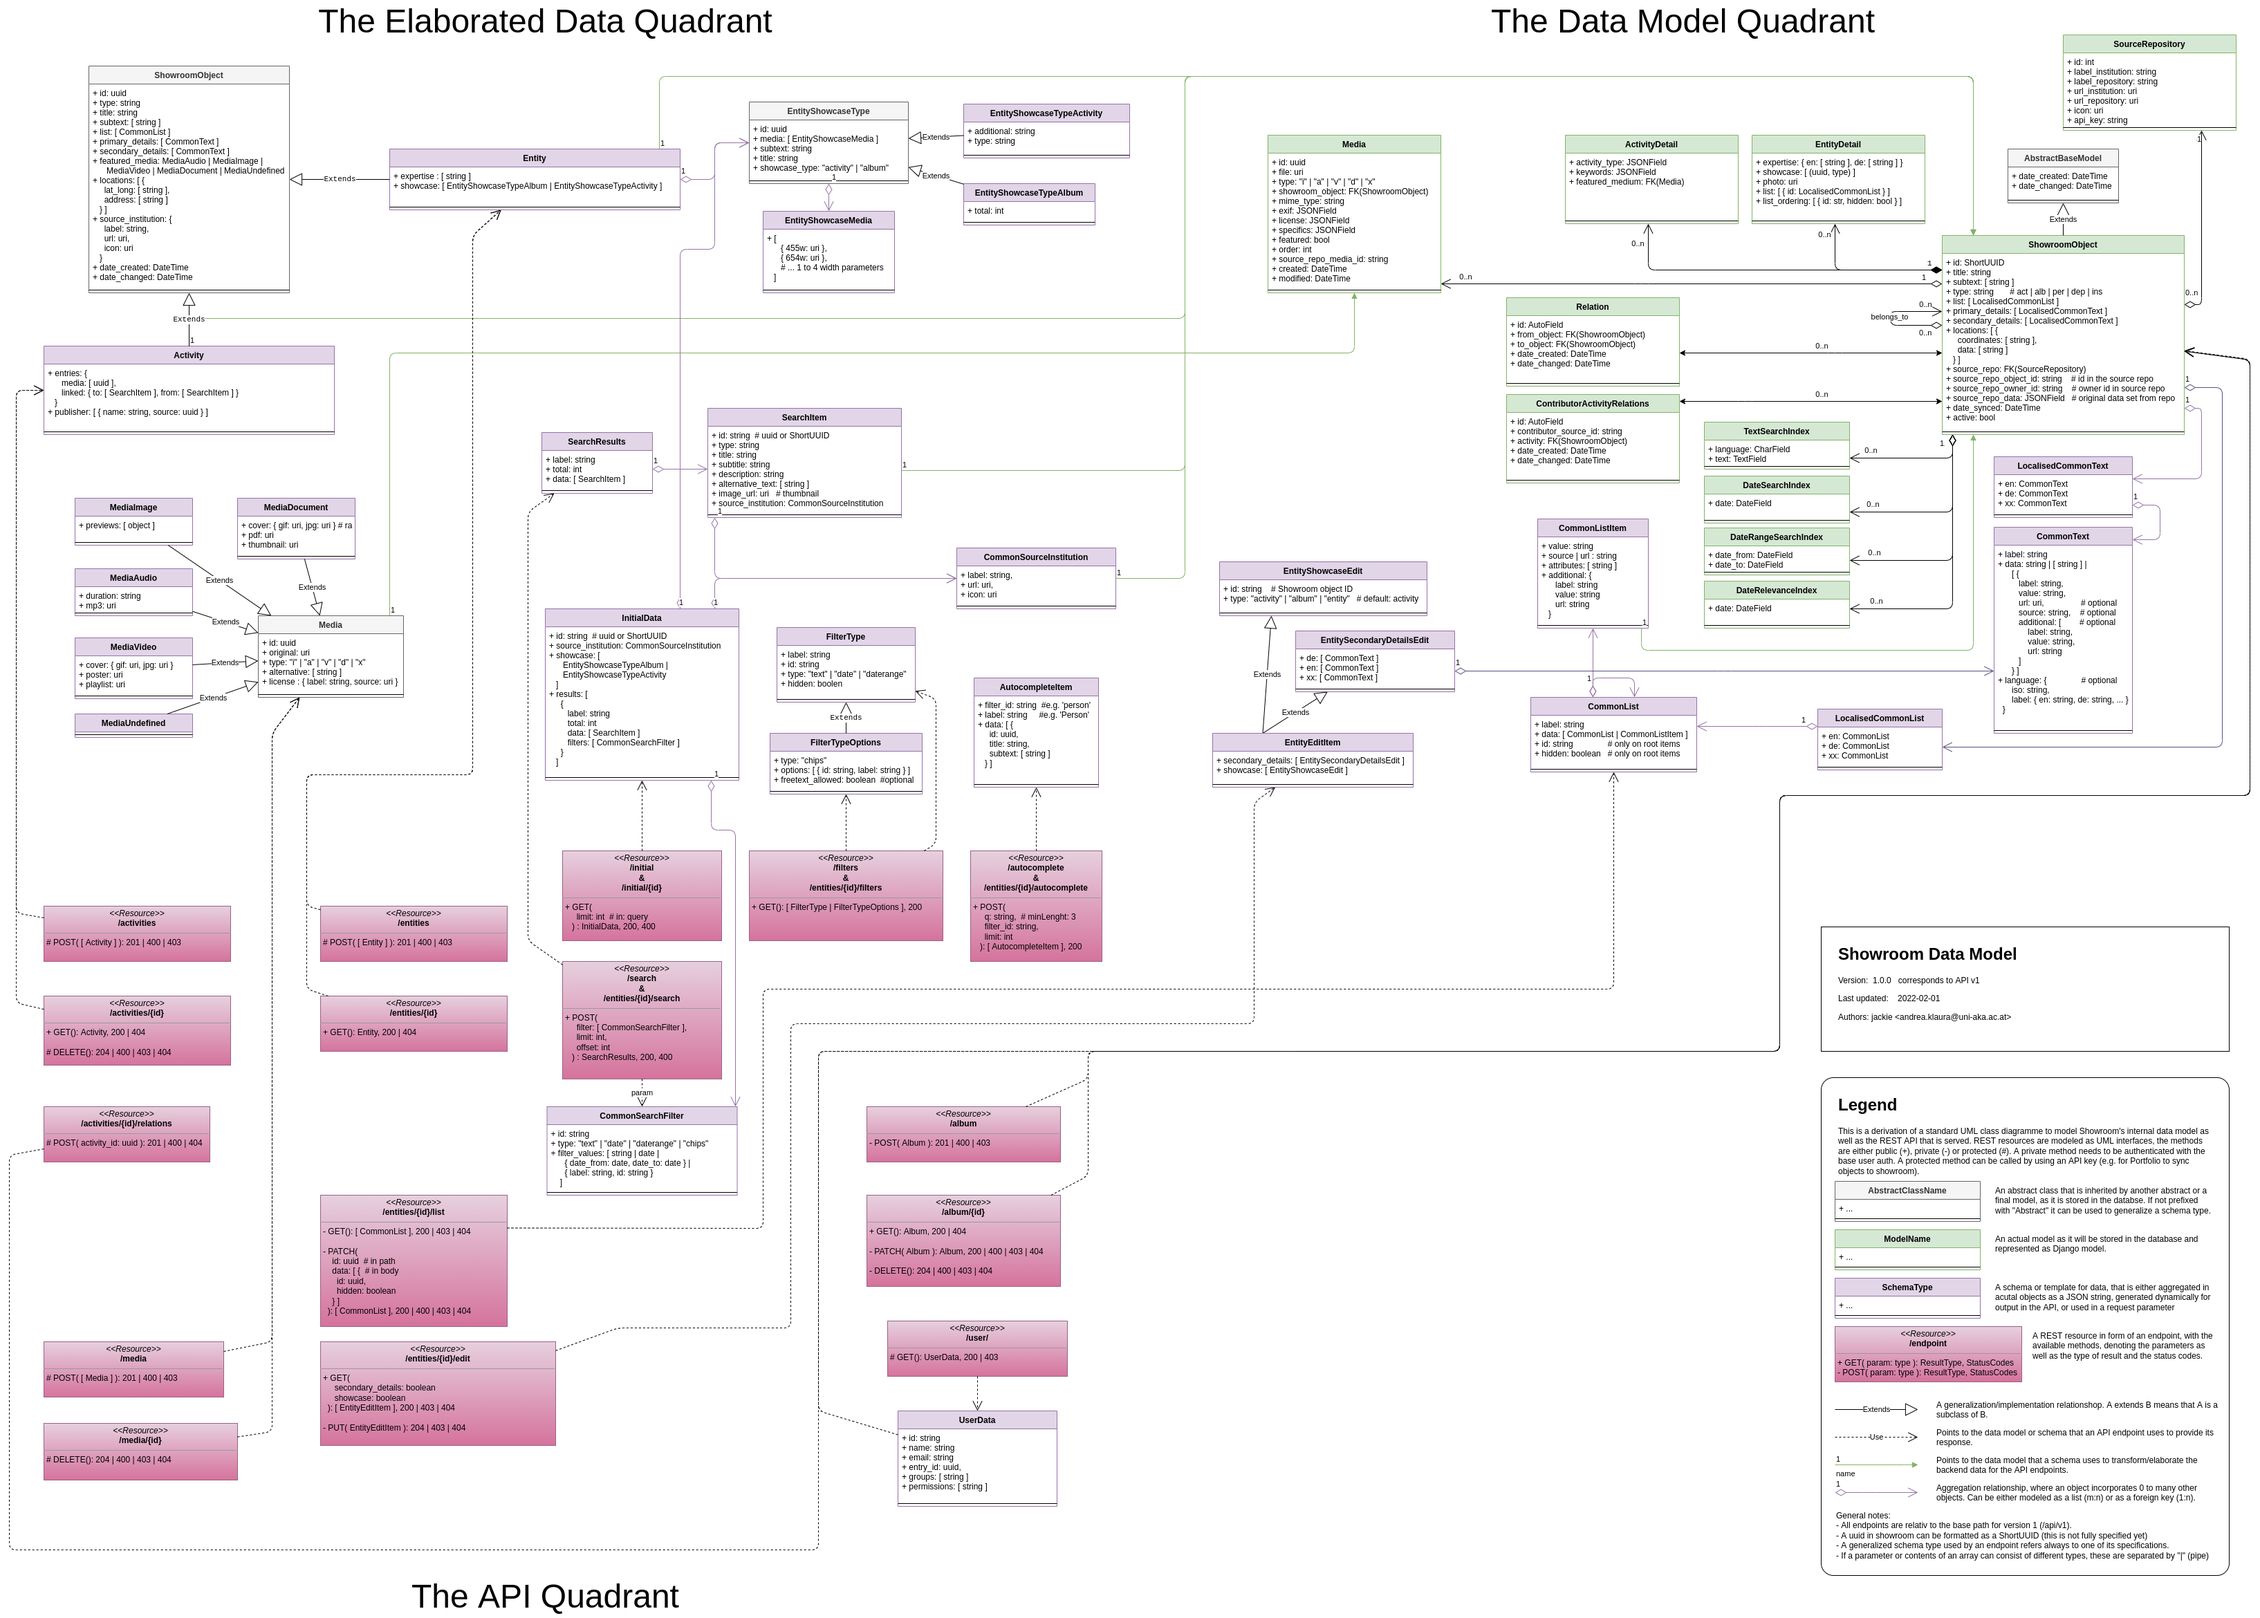
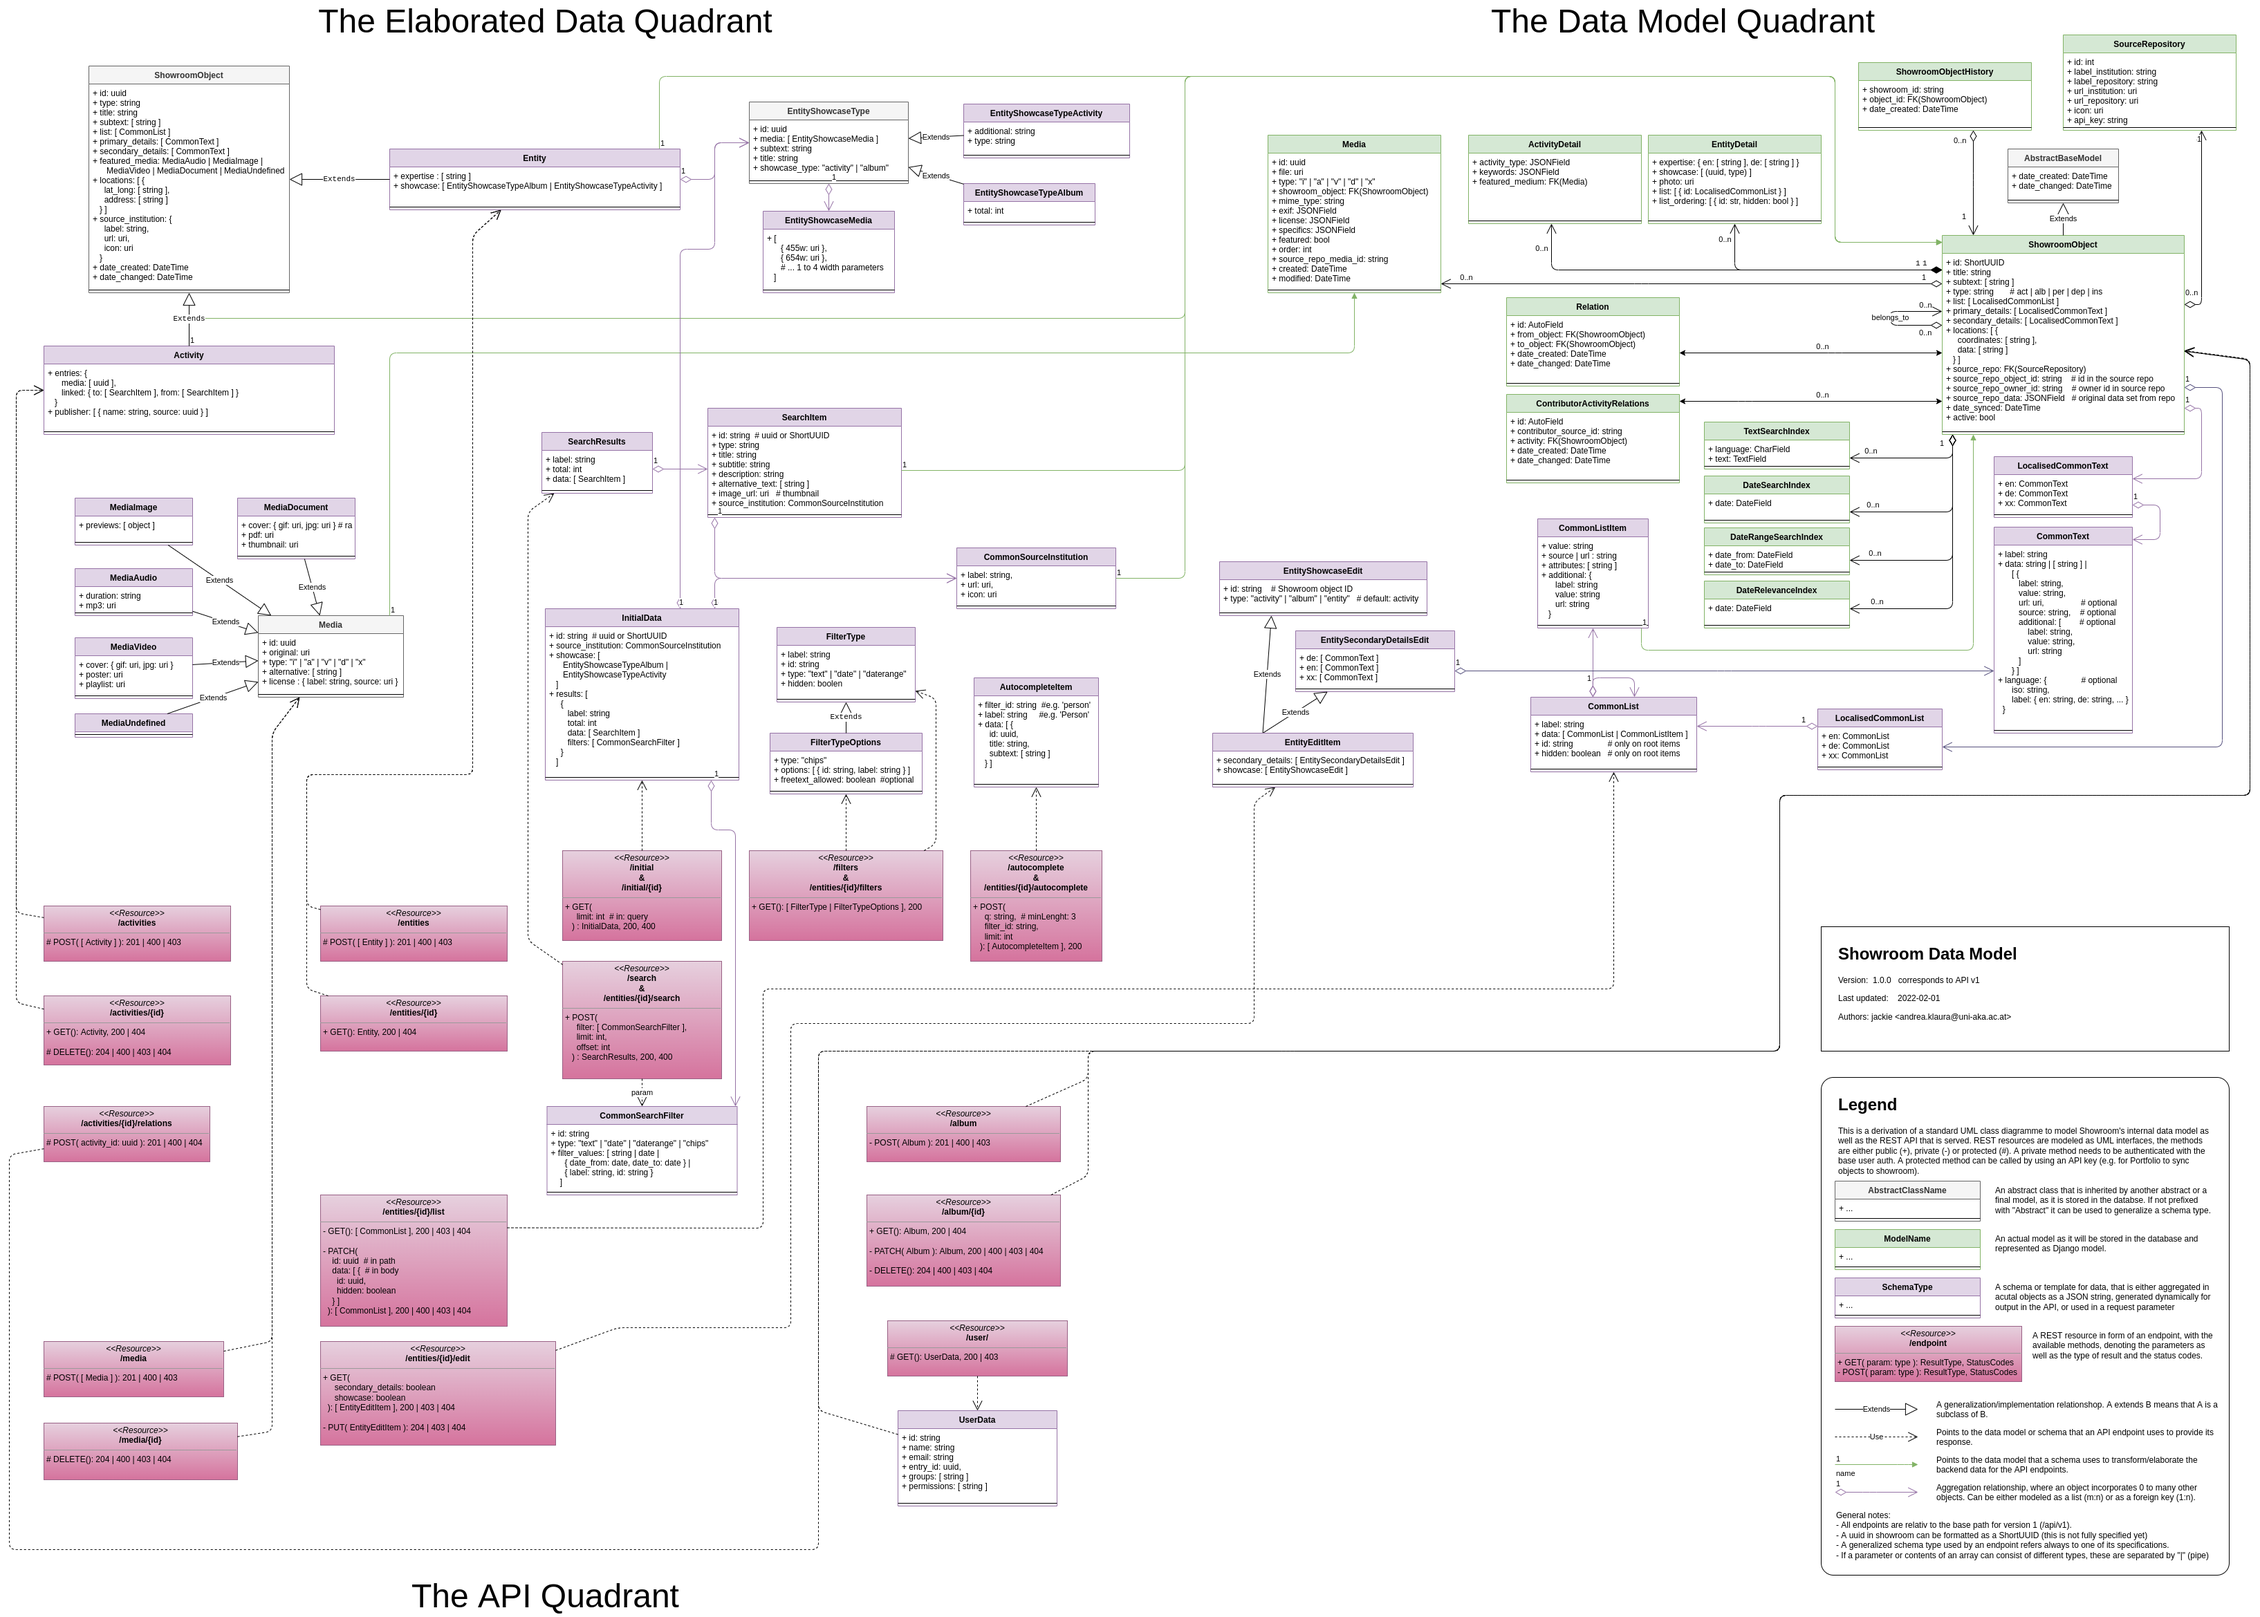
+ add ShowroomObjectHistory model

diff --git a/src/api/migrations/0003_auto_20220712_1559.py b/src/api/migrations/0003_auto_20220712_1559.py
@@ -1,0 +1,33 @@
+# Generated by Django 3.2.13 on 2022-07-12 13:59
+
+import api.models
+from django.db import migrations, models
+
+
+class Migration(migrations.Migration):
+
+    dependencies = [
+        ('api', '0002_pluginapikey'),
+    ]
+
+    operations = [
+        migrations.AlterModelOptions(
+            name='pluginapikey',
+            options={'verbose_name': 'Plugin API key', 'verbose_name_plural': 'Plugin API keys'},
+        ),
+        migrations.AlterField(
+            model_name='pluginapikey',
+            name='allowed_ips',
+            field=models.JSONField(default=api.models.get_default_allowed_ips, help_text='JSON list of IPs that are allowed to use this key. Use * for any.', validators=[api.models.validate_ips]),
+        ),
+        migrations.AlterField(
+            model_name='pluginapikey',
+            name='note',
+            field=models.TextField(blank=True, help_text='Optional internal note for admins.'),
+        ),
+        migrations.AlterField(
+            model_name='pluginapikey',
+            name='plugins',
+            field=models.JSONField(blank=True, default=list, help_text='JSON list of plugins that can be used with this key. Available plugins: repo_source', validators=[api.models.validate_plugins]),
+        ),
+    ]

diff --git a/src/core/migrations/0002_showroomobjecthistory.py b/src/core/migrations/0002_showroomobjecthistory.py
@@ -1,0 +1,22 @@
+# Generated by Django 3.2.13 on 2022-07-12 13:59
+
+from django.db import migrations, models
+import django.db.models.deletion
+
+
+class Migration(migrations.Migration):
+
+    dependencies = [
+        ('core', '0001_initial'),
+    ]
+
+    operations = [
+        migrations.CreateModel(
+            name='ShowroomObjectHistory',
+            fields=[
+                ('showroom_id', models.CharField(max_length=255, primary_key=True, serialize=False)),
+                ('date_created', models.DateTimeField(auto_now_add=True)),
+                ('object_id', models.ForeignKey(on_delete=django.db.models.deletion.CASCADE, to='core.showroomobject')),
+            ],
+        ),
+    ]

diff --git a/src/core/models.py b/src/core/models.py
@@ -243,6 +243,12 @@ def create_object_details(sender, instance, created, raw, *args, **kwargs):
         instance.save()
 
 
+class ShowroomObjectHistory(models.Model):
+    showroom_id = models.CharField(max_length=255, primary_key=True)
+    object_id = models.ForeignKey(ShowroomObject, on_delete=models.CASCADE)
+    date_created = models.DateTimeField(auto_now_add=True, editable=False)
+
+
 class EntityDetail(models.Model):
     showroom_object = models.OneToOneField(
         ShowroomObject, on_delete=models.CASCADE, primary_key=True
